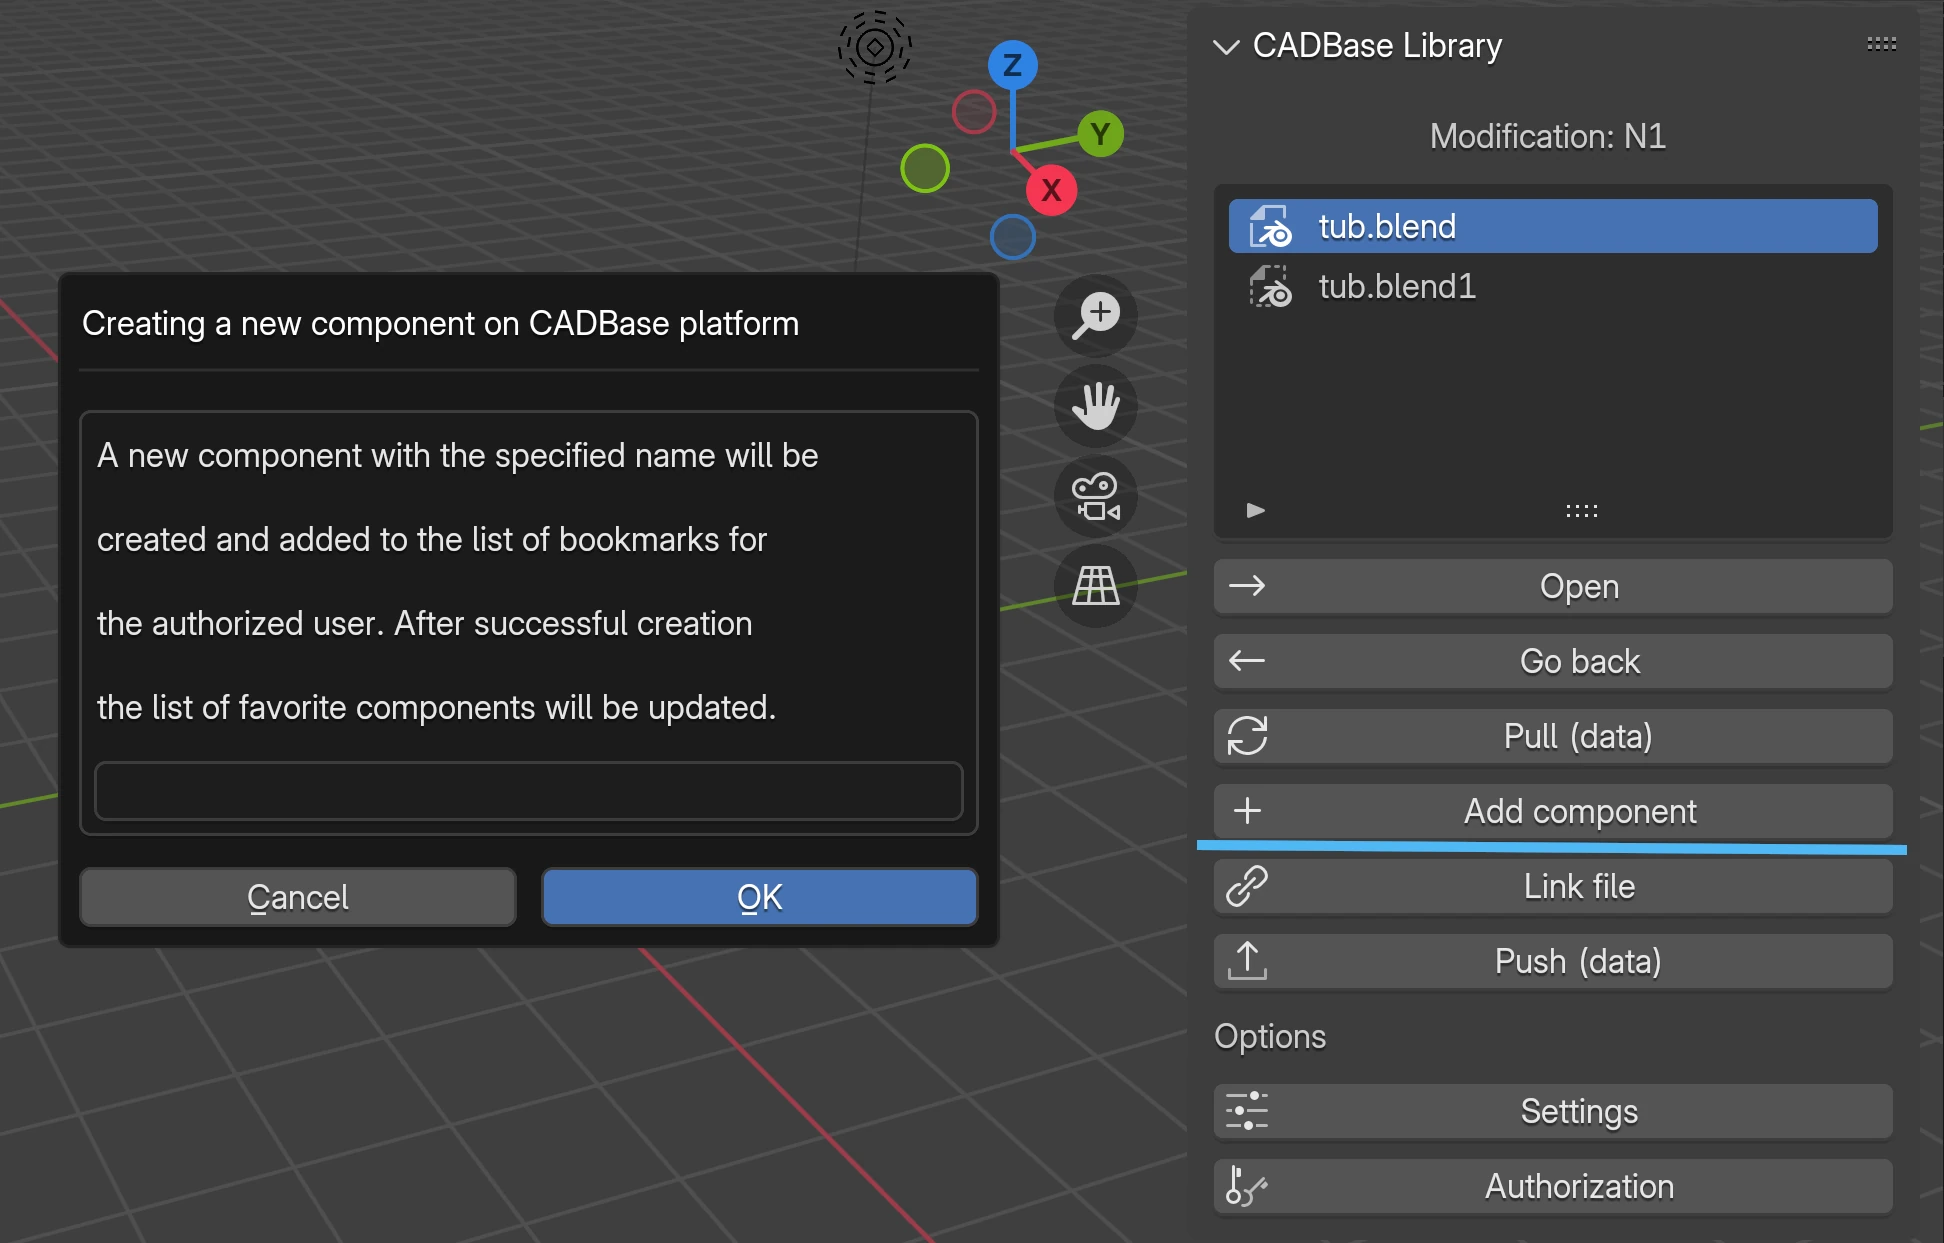
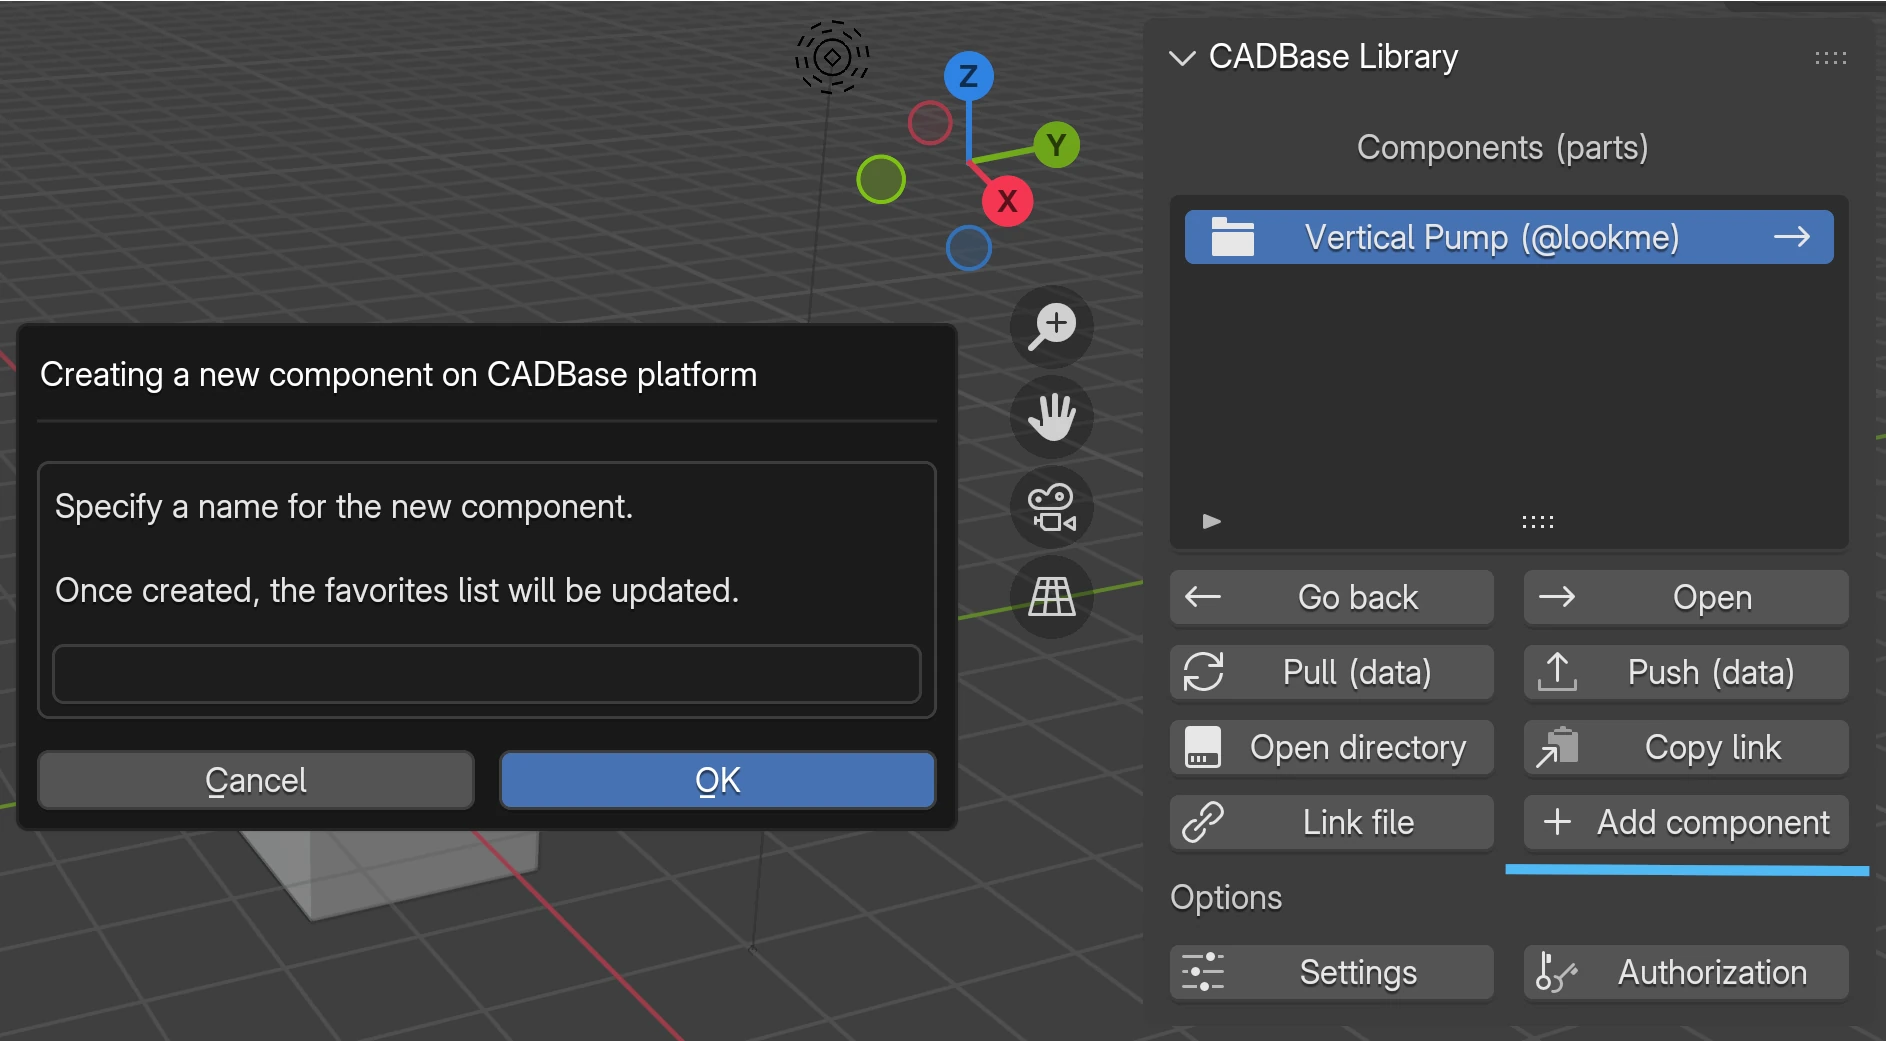
update images in readme for v0.3

diff --git a/README.md b/README.md
@@ -3,7 +3,7 @@
 [![License: LGPL v3](https://img.shields.io/badge/License-LGPL%20v3-blue.svg)](https://www.gnu.org/licenses/lgpl-3.0)
 [![Blender >= 4.2.0](https://img.shields.io/badge/Blender->=4.2.0-green)](https://blender.org)
 
-<div align="center"><img src="./Resources/panels_collage.webp" alt="Features and interface of CADBase Library add-on"></div>
+<div align="center"><img src="./Resources/add-on_panel.webp" alt="Features and interface of CADBase Library add-on"></div>
 
 This add-on allows users to interact with CADBase via the Blender interface.  
 CADBase is a platform for publishing and sharing information about components (parts), 3D models, drawings, and manufacturers.
@@ -13,7 +13,10 @@ You can also create an account directly through the add-on. If the entered usern
 
 ## Description
 
-Component modifications include sets of files for various CAD systems. This add-on works with data from Blender’s file sets without downloading documentation or data from other file sets.  
+Component modifications include sets of files for various CAD systems. This add-on works with data from Blender’s file sets without downloading documentation or data from other file sets.
+
+<div align="center"><img src="./Resources/blender_fileset.webp" alt="Blender fileset on CADBase Platform" width="60%"></div>
+
 Files uploaded to file sets are versioned, allowing you to restore earlier versions, compare changes, review modifications, and track who last edited them.
 
 <div align="center"><img src="./Resources/add-on_cadbase.webp" alt="CADBase Library add-on in the Blender Add-ons Manager" width="60%"></div>
@@ -89,7 +92,8 @@ The **Data synchronization** section allows you to optimize performance and cont
 
 ## First Start
 
-After installation, the add-on appears in Blender's **3D View** > **Sidebar** under the **Import-Export** category.  
+Once installed, the add-on will be available in Blender's **3D View** > **Sidebar** under the **Import-Export** category.  
+You can also press **N** to quickly open the 3D View sidebar in Blender.  
 Select **CADBase Library** to begin.
 
 ## Control Buttons
